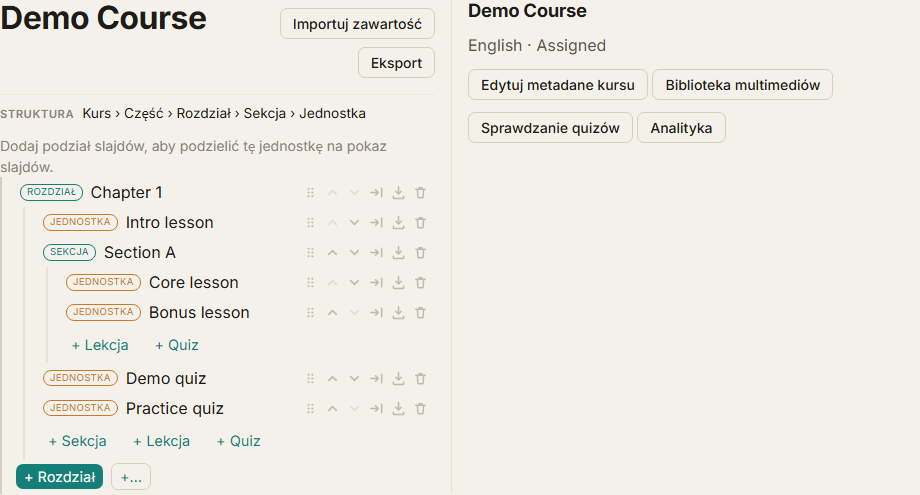
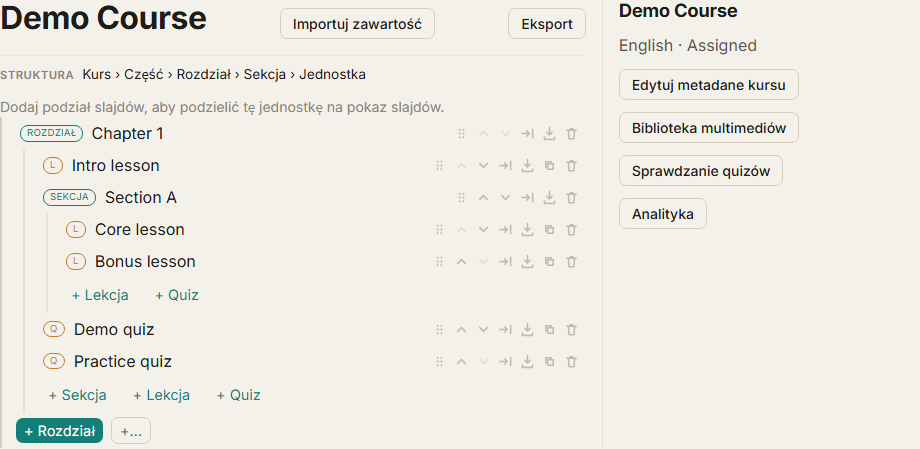
docs(builder): document inline renaming; refresh catalogs and help shots
The builder-tree help screenshots depicted the old button-based titles, and
neither help topic mentioned renaming -- which is now a primary tree gesture
and the only way to rename a unit without opening the editor.

Claude-Session: https://claude.ai/code/session_01L3jS6XXQwKhxzdkg2Nxzm7

diff --git a/docs/help/course-admin/builder.pl.md b/docs/help/course-admin/builder.pl.md
@@ -32,6 +32,15 @@ lub **+ Quiz**, aby utworzyć lekcję (strony z treścią) lub quiz (oceniane
 pytania). Przeciągaj jednostki, aby zmienić ich kolejność; konspekt po lewej
 stronie odzwierciedla to, co widzą uczniowie.
 
+## Zmiana nazwy
+
+Każdy tytuł w drzewie można edytować bezpośrednio na miejscu — zarówno części,
+rozdziały i sekcje, jak i jednostki. Kliknij tytuł, wpisz nową nazwę, a
+następnie naciśnij **Enter** lub kliknij poza polem, aby ją zapisać. Naciśnij
+**Escape**, aby porzucić zmianę i przywrócić poprzedni tytuł. To także
+najszybszy sposób na zmianę nazwy jednostki: nie trzeba już otwierać jej
+edytora.
+
 ## Co dalej
 
 - [Edytory treści](content-editors) — tworzenie stron lekcji.

diff --git a/docs/help/course-admin/builder.md b/docs/help/course-admin/builder.md
@@ -31,6 +31,14 @@ Type a name into the **New title** field, then press the **+ Lesson** or
 questions). Drag units to reorder them; the outline on the left mirrors what
 students see.
 
+## Renaming
+
+Every title in the tree is editable in place — parts, chapters, sections and
+units alike. Click a title, type the new name, then press **Enter** or click
+away to save it. Press **Escape** to abandon the edit and restore the previous
+title. This is also the quickest way to rename a unit: you no longer need to
+open its editor.
+
 ## Next steps
 
 - [Content editors](content-editors) — building lesson pages.